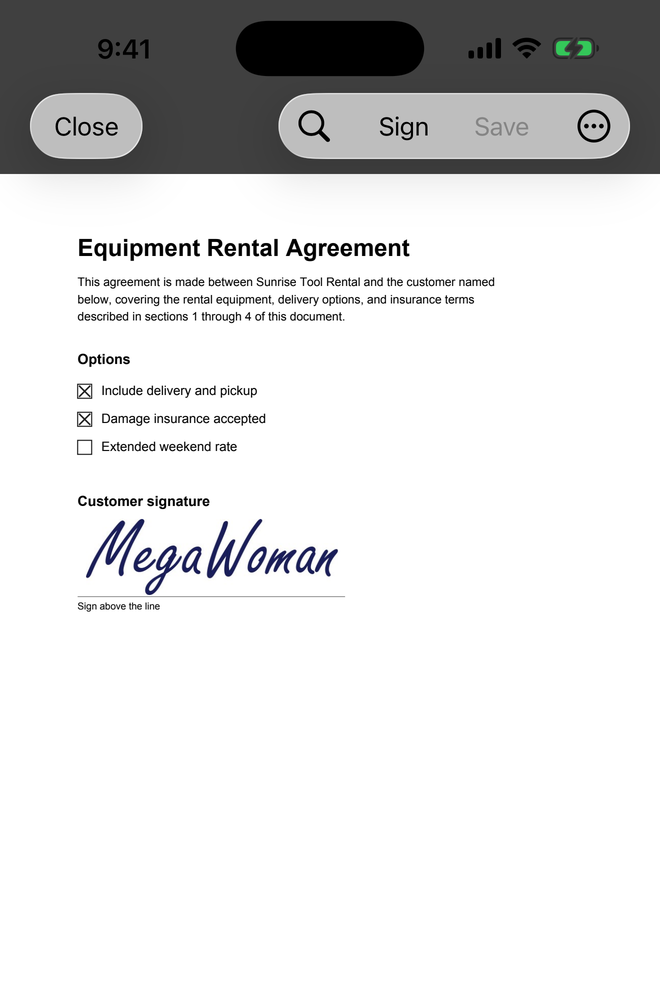
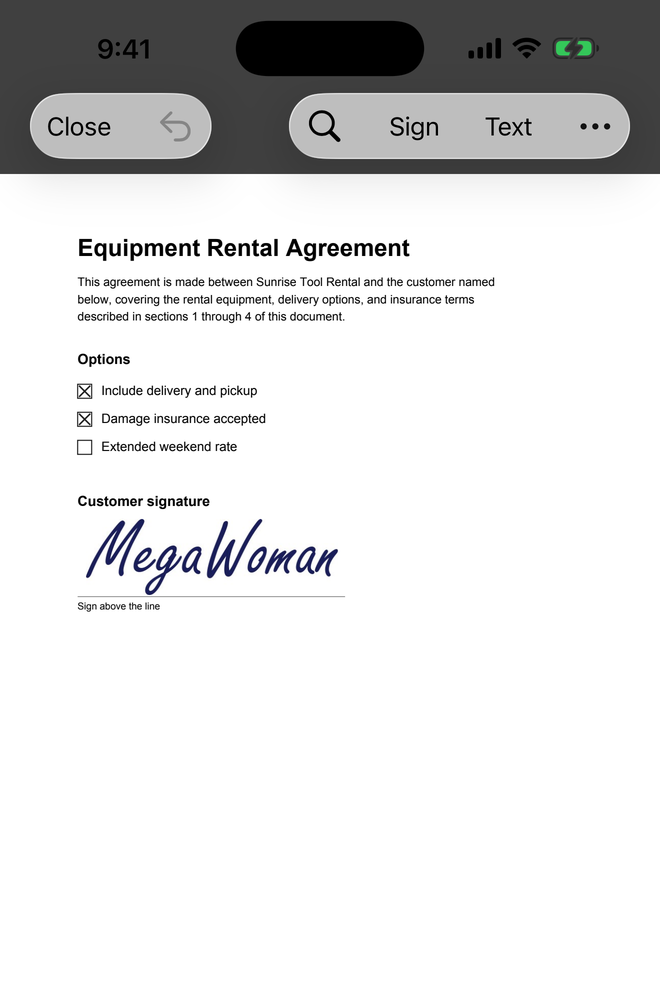
Marketing: a screenshot state for added text, and copy to match (#43) (#47)
* Marketing: a screenshot state for added text, and copy to match (#43)

The listings still described an app that cannot add text — a gap that
predates this work (#34 shipped Add text and the copy was never updated)
and widened with #36 and #43.

New `text` screenshot state on both phones: the demo agreement with the
text editor open on a typed name and the size and face pickers showing.
Wired into both capture pipelines, so the shot comes out of the existing
iOS Screenshots and Android Screenshots workflows alongside the other five.

The tap point is chosen rather than synthesised — just under the signature
rule the demo agreement draws, where a printed name belongs. The demo
document is deliberately untouched: four copies of demo.pdf exist across
the two apps and their test assets, and the dialog overlays the page
anyway, so the editor is the subject and the page is context.

Copy updated in three places: the website gains a "Type on any line"
feature card and a gallery shot, the App Store description gains a matching
section, and the Microsoft Store description gains an ADD TEXT paragraph
and a feature bullet — it went from "four things" to five.

Release notes for the mobile pair are written now, while the work is fresh,
in docs/release-notes-mobile-1.3.md. It picks up where 1.2 left off: that
file listed "moving a placed text box (#36)" under Not in this release, on
purpose, and that caveat is now spent. It deliberately does not tell the
[…]

diff --git a/android/app/src/main/java/com/megapdf/android/ViewerViewModel.kt b/android/app/src/main/java/com/megapdf/android/ViewerViewModel.kt
@@ -130,7 +130,7 @@ class ViewerViewModel(application: Application) : AndroidViewModel(application) 
     var pendingTextTap: PendingTextTap? by mutableStateOf(null)
         private set
 
-    /** Screenshot-mode sheet request ("sign" | "draw" | "search"); set via launch intent. */
+    /** Screenshot-mode sheet request ("sign" | "draw" | "search" | "text"); set via launch intent. */
     var screenshotSheet: String? by mutableStateOf(null)
         private set
 
@@ -163,7 +163,7 @@ class ViewerViewModel(application: Application) : AndroidViewModel(application) 
                     RecentEntry("demo://3", "Insurance Claim Form.pdf", now - 6 * day),
                 ), null)
             }
-            "viewer", "sign", "draw", "search" -> {
+            "viewer", "sign", "draw", "search", "text" -> {
                 screenshotSheet = if (state == "viewer") null else state
                 viewModelScope.launch {
                     val bytes = withContext(Dispatchers.IO) {
@@ -187,6 +187,16 @@ class ViewerViewModel(application: Application) : AndroidViewModel(application) 
                         // return, and the debounce is skipped so the hits and
                         // the "N of M" count are on screen without any wait.
                         startSearch(SCREENSHOT_SEARCH_TERM, debounceMs = 0L)
+                    }
+                    if (state == "text") {
+                        // The Add text dialog, open on a typed name with the size
+                        // and face pickers showing (#43). Armed here rather than
+                        // through onPageTapped because the tap point is chosen,
+                        // not synthesised: just under the signature rule, where a
+                        // printed name belongs on this agreement.
+                        pendingTextTap = PendingTextTap(
+                            0, SCREENSHOT_TEXT_X, SCREENSHOT_TEXT_Y,
+                            initialText = SCREENSHOT_TEXT)
                     }
                 }
             }
@@ -1025,5 +1035,11 @@ class ViewerViewModel(application: Application) : AndroidViewModel(application) 
         // Marketing screenshot query: "rental" is the most-repeated real word in
         // the demo agreement (title, then twice in the opening paragraph).
         const val SCREENSHOT_SEARCH_TERM = "rental"
+
+        // Marketing "Add text" shot: the name the customer would print under the
+        // signature rule the demo agreement draws at y=400.
+        const val SCREENSHOT_TEXT = "Jane Whitfield"
+        const val SCREENSHOT_TEXT_X = 72.0
+        const val SCREENSHOT_TEXT_Y = 372.0
     }
 }

diff --git a/ios/MegaPDF/ViewerModel.swift b/ios/MegaPDF/ViewerModel.swift
@@ -130,7 +130,7 @@ final class ViewerModel: ObservableObject {
         switch mode {
         case "home":
             state = .home(recents: DemoContent.demoRecents(), error: nil)
-        case "viewer", "sign", "draw", "search":
+        case "viewer", "sign", "draw", "search", "text":
             if let url = Bundle.main.url(forResource: "demo", withExtension: "pdf"),
                let bytes = try? Data(contentsOf: url) {
                 if mode == "sign" { screenshotSheet = .signatures }
@@ -139,6 +139,18 @@ final class ViewerModel: ObservableObject {
                 Task {
                     await open(bytes: bytes, password: nil,
                                displayName: "Rental Agreement.pdf", sourceURL: nil)
+                    if mode == "text" {
+                        // The Add text sheet, open on a typed name with the size
+                        // and face pickers showing (#43). Armed after the open so
+                        // it cannot be cleared by the state change, and with a
+                        // chosen tap point rather than a synthesised one: just
+                        // under the signature rule, where a printed name belongs.
+                        draftText = DemoContent.printedName
+                        pendingText = PendingText(pageIndex: 0,
+                                                  x: DemoContent.printedNameX,
+                                                  y: DemoContent.printedNameY,
+                                                  initialText: DemoContent.printedName)
+                    }
                 }
             }
         default:

diff --git a/website/megapdf/index.html b/website/megapdf/index.html
@@ -167,6 +167,12 @@
                    drawn checkboxes that other apps treat as decoration.</p>
             </article>
             <article class="feature">
+                <h3><span class="dot">T</span> Type on any line</h3>
+                <p>Tap where the answer goes and type it. Pick the size and the
+                   face so it matches the form you are filling in — then drag it
+                   into place, or tap it again to fix a typo.</p>
+            </article>
+            <article class="feature">
                 <h3><span class="dot">✎</span> Sign like you mean it</h3>
                 <p>Draw your signature or photograph the one on paper — the white
                    background disappears. Place it, move it, resize it until it sits
@@ -197,6 +203,10 @@
                 <figure>
                     <img src="shot-viewer.png" alt="A rental agreement with two checked boxes and a handwritten MegaWoman signature">
                     <figcaption>Checked and signed in under a minute</figcaption>
+                </figure>
+                <figure>
+                    <img src="shot-text.png" alt="Typing a name onto a rental agreement, with size and font pickers below the text field">
+                    <figcaption>Type on the blank line — your size, your font</figcaption>
                 </figure>
                 <figure>
                     <img src="shot-search.png" alt="Searching a rental agreement for the word rental, with three matches highlighted and a 1 of 3 counter">

diff --git a/ios/MegaPDF/DemoContent.swift b/ios/MegaPDF/DemoContent.swift
@@ -21,6 +21,12 @@ enum DemoContent {
     /// case-insensitive, so the lower-case term matches the capitalized ones.
     static let searchTerm = "rental"
 
+    /// Marketing "Add text" shot (#43): the name the customer would print under
+    /// the signature rule the demo agreement draws at y=400, and where it sits.
+    static let printedName = "Jane Whitfield"
+    static let printedNameX: Double = 72
+    static let printedNameY: Double = 372
+
     /// The handwritten "MegaWoman" demo signature (bundled transparent PNG,
     /// rendered from a script typeface at build time).
     static func signatureImage() -> CGImage? {

diff --git a/docs/release-notes-mobile-1.3.md b/docs/release-notes-mobile-1.3.md
@@ -1,0 +1,79 @@
+# Mobile release notes — text you can move, correct and style
+
+Written when the work merged (#36, #43) so the store copy is not composed under
+time pressure on approval day. Paste as-is; both are within their length limits.
+
+Continues `docs/release-notes-mobile-1.2.md`, which shipped Add text and undo
+and listed **"moving a placed text box (#36)"** under *Not in this release, on
+purpose*. That caveat is now spent.
+
+## Version numbers — check before you paste
+
+`android/app/build.gradle.kts` currently reads **1.2.0, versionCode 8**, which is
+the release 1.2 prepared and has not yet been superseded. Whether this work goes
+out as 1.3.0/vc9 or folds into an unshipped 1.2 depends on whether vc8 actually
+reached Play — **look before bumping.**
+
+iOS is the same story as last time: `MARKETING_VERSION` comes from the tag, so
+there is nothing in the repo to bump, and nothing here should be folded into a
+submission that is waiting on review. See `docs/app-review-notes.md`.
+
+## Google Play — release notes (en-CA, ≤500 chars)
+
+```
+Text you placed is no longer stuck. Tap it to select it, drag it where it
+belongs, or tap the pencil to fix a typo.
+
+Choose the size and the font. Six sizes, and sans, serif or monospace, so what
+you add matches the form you are filling in — on new text and on text you
+already placed.
+
+Everything is still one undo away.
+```
+
+*(around 330 characters)*
+
+## App Store — "What's New"
+
+```
+Text you placed is no longer stuck. Tap it to select it, drag it where it
+belongs, or tap the pencil to correct it.
+
+Choose the size and the font — six sizes, and sans, serif or monospace — so
+what you add matches the form you are filling in. Works on new text and on text
+you have already placed, and it is all one undo away.
+```
+
+## What the copy deliberately does not say
+
+- **"Three fonts"** rather than naming Helvetica, Times and Courier. The names
+  are exact in the PDF (SDD §6.2 contract 4) and must not drift, but they mean
+  nothing to the person reading a store listing. Sans/serif/monospace does.
+- **Nothing about bold or italic.** They are not offered. The full standard-14
+  set was considered and cut: §3.1 keeps formatting controls out, and a choice
+  between three faces is not a formatting toolbar.
+- **Nothing about editing the document's own text.** Still Windows-only, still
+  waiting on the shared engine core (#33 / ADR-002). Both stores' descriptions
+  already avoid claiming it on mobile — keep it that way.
+
+## Not in this release, on purpose
+
+- **Resizing a text box by dragging a handle.** A signature stamp resizes by
+  scaling its image; a text box would have to change font size, which is now a
+  picker instead. The selection overlay deliberately has no resize handle.
+- **Text boxes written by MegaPDF for Windows 1.6.x.** They carry no id, so the
+  phones decline to move or edit them and say so rather than silently addressing
+  the wrong box. Not worth a line in the listing, but it is the one case where
+  the feature visibly declines to work — worth knowing if a reviewer asks.
+
+## Screenshots
+
+A new `text` screenshot state ships with this work, so both stores get a shot of
+the text editor with the size and font pickers open. Run the **iOS Screenshots**
+and **Android Screenshots** workflows and upload the `-text` capture alongside
+the existing ones; captions are in `docs/app-store-listing.md` §Screenshots.
+
+The Windows Store screenshots are **not** covered by that — they need a real
+desktop with the new build installed (`tools/screenshots-windows/`), and the four
+on disk are still from 1.6.2. `tools/Store-Listing.md` §Screenshots carries the
+warning.

diff --git a/docs/app-store-listing.md b/docs/app-store-listing.md
@@ -45,6 +45,12 @@ character limits show the count in brackets.
 > printed squares alike. MegaPDF recognizes drawn checkboxes that other apps
 > treat as decoration.
 >
+> **Type on any line**
+> Tap where the answer goes and type it. Choose the size and the face — sans,
+> serif or monospace — so what you add matches the form you are filling in.
+> Drag it into place, or tap it again to fix a typo. Everything you add is
+> real, searchable text, not a sticker on top of the page.
+>
 > **Sign like you mean it**
 > Draw your signature with a finger, or photograph the one on paper — the
 > white background disappears automatically. Your signatures stay in a private
@@ -90,6 +96,9 @@ character limits show the count in brackets.
 > signature, and save safely back to the original file. No account, no
 > tracking, no network access — everything stays on your device.
 
+*Later releases keep their copy in `docs/release-notes-mobile-*.md`, written
+when the work merges rather than composed under time pressure on approval day.*
+
 ## App Privacy (Data Collection)
 
 Select **"Data is not collected"** for every category. Justification if asked:
@@ -105,16 +114,19 @@ workflow), download the `appstore-screenshots` artifact, and upload:
 | File | Slot | Suggested caption (optional overlay text) |
 |---|---|---|
 | `iphone-6_9-viewer.png` | iPhone 6.9" #1 | *Checked and signed in under a minute* |
-| `iphone-6_9-search.png` | iPhone 6.9" #2 | *Find any word, on every page* |
-| `iphone-6_9-sign.png` | iPhone 6.9" #3 | *Your signatures, saved on your device* |
-| `iphone-6_9-draw.png` | iPhone 6.9" #4 | *Draw it once, use it everywhere* |
-| `iphone-6_9-home.png` | iPhone 6.9" #5 | *No account. No cloud. No tracking.* |
-| `ipad-13-*.png` | iPad 13" #1–5 | same order |
+| `iphone-6_9-text.png` | iPhone 6.9" #2 | *Type on the blank line — your size, your font* |
+| `iphone-6_9-search.png` | iPhone 6.9" #3 | *Find any word, on every page* |
+| `iphone-6_9-sign.png` | iPhone 6.9" #4 | *Your signatures, saved on your device* |
+| `iphone-6_9-draw.png` | iPhone 6.9" #5 | *Draw it once, use it everywhere* |
+| `iphone-6_9-home.png` | iPhone 6.9" #6 | *No account. No cloud. No tracking.* |
+| `ipad-13-*.png` | iPad 13" #1–6 | same order |
 
 Order matters: the viewer shot (a filled, signed agreement) leads.
 
-The search shot only exists once the `search` screenshot state ships — it is
-not in the 1.0 builds, so upload it with the update that carries Find.
+Each shot only exists once its screenshot state ships. `search` is not in the
+1.0 builds, and `text` is newer still (#43) — upload each with the update that
+actually carries the feature, or the listing promises something the binary does
+not do.
 
 ## App Review Information
 
@@ -152,8 +164,12 @@ not in the 1.0 builds, so upload it with the update that carries Find.
 > 5. Tap the magnifier and search a long document — do the highlights and the
 >    "3 of 17" count match what you see, and does the return key walk through
 >    the matches and wrap around at the end?
-> 6. If you also use MegaPDF on Windows or Android: sign there, open here —
->    the signature should be movable on both.
+> 6. Tap Text, tap a blank line, and type — try a different size and font
+>    before adding it. Then tap the text you placed: drag it, use the pencil to
+>    fix a typo or change its size, and undo the lot.
+> 7. If you also use MegaPDF on Windows or Android: sign there, open here —
+>    the signature should be movable on both, and text added on one should
+>    keep its size and face on the others.
 
 ---
 

diff --git a/tools/Store-Listing.md b/tools/Store-Listing.md
@@ -10,11 +10,15 @@
 paragraphs survive, markdown does not.)
 
 Mega PDF is a free, lightweight PDF editor built for people who find the big
-PDF suites too bloated and complex. It does four things exceptionally well —
+PDF suites too bloated and complex. It does five things exceptionally well —
 and deliberately nothing else.
 
 EDIT TEXT — Click any text in the document and type, like editing a Word file.
 Fix a typo, change a date, update a number. Done.
+
+ADD TEXT — Click a blank line and type on it. Pick the size and the face —
+sans, serif or monospace — so what you add matches the rest of the form. Drag
+it into place, or double-click it later to change it.
 
 CHECK BOXES — Click an empty square and it becomes a checked box. Forms that
 were never meant to be filled digitally, filled digitally.
@@ -41,6 +45,7 @@ Mega PDF is open source (Apache-2.0): github.com/SlyWombat/MegaPDF
 (Store listing → "App features", up to 20 × 200 chars. Use these eight.)
 
 - Edit text in any PDF by clicking and typing — like a Word document
+- Add text on any blank line, in the size and face that matches the form
 - Click empty squares to check boxes on any form
 - Drag signatures from your personal library onto the page, then nudge and resize
 - Find any word in the document with Ctrl+F — every match highlighted, Enter steps through them
@@ -69,9 +74,8 @@ Mega PDF is open source (Apache-2.0): github.com/SlyWombat/MegaPDF
 - Copyright: © 2026 Electric RV. Licensed under Apache-2.0.
 
 ## Screenshots
-Shot and ready to upload: `artifacts/store/screenshots/` (3038×1989, well over the
-1366×768 minimum; 1–4 required). Captured from **1.6.2** — see that folder's
-README.md to re-shoot after a UI change. Upload in this order, one caption each:
+`artifacts/store/screenshots/` (3038×1989, well over the 1366×768 minimum; 1–4
+required). Upload in this order, one caption each:
 
 | File | Caption (≤ 200 chars) |
 |---|---|
@@ -79,6 +83,17 @@ README.md to re-shoot after a UI change. Upload in this order, one caption each:
 | `02-checkbox.png` | Click an empty square to check it. Drawn checkboxes too, not just real form fields. |
 | `03-signature.png` | Drop a saved signature on the line, then nudge it into place. |
 | `04-shrink.png` | Shrink oversized scans to email-friendly sizes in one click. |
+| `05-add-text.png` | Type on a blank line, in the size and face that matches the form. |
+
+⚠ **The four shots on disk are from 1.6.2 and predate the ADD TEXT copy above.**
+They show a toolbar without the size and font pickers, and there is no
+`05-add-text.png` yet. Re-shoot all five before submitting, or the listing
+describes a build the screenshots do not show — the same mismatch NEXT-STEPS.md
+already flags between the shots and the staged upload package.
+
+Re-shooting needs a Windows desktop with the new build installed; the harness is
+`tools/screenshots-windows/` (start with its README). It cannot be done from CI —
+unlike iOS and Android, whose screenshots come from the Actions workflows.
 
 Shot 3 is click-to-place, not drag: picking a signature from the library arms
 placement and the next click on the page drops it there, selected for nudging.

diff --git a/tools/screenshots-windows/README.md b/tools/screenshots-windows/README.md
@@ -35,6 +35,9 @@ the result before continuing. Paths must be **Windows** paths.
     # 5. shot 4 — save, open the scan, Shrink for email
     .\Shot-Shrink.ps1 -Pdf "<repo>\...\scanned-agreement.pdf" -Out "<repo>\...\scanned-agreement - smaller.pdf"
 
+    # 6. shot 5 — NOT YET SCRIPTED, see below
+    #    Add text with the size and face pickers showing (#43).
+
 `Test-FullBreakpoint.ps1` captures toolbar strips right at the full-label
 breakpoint with a document open and edited, so `Save ●` is showing — the widest
 the bar ever gets, and the one state where clipping could survive the fix.
@@ -48,6 +51,29 @@ toolbar strips across a list of widths. `Shot-Now.ps1` grabs the current state.
 scale.** They are read off the previous screenshot, not computed: `Click-InShot`
 maps image coordinates to screen because the shot *is* the DWM frame rect. On any
 other frame, take a shot first and re-read them.
+
+## Shot 5 — Add text, with the pickers (#43): still to be written
+
+`tools/Store-Listing.md` now describes ADD TEXT and lists a fifth screenshot,
+`05-add-text.png`. **There is no script for it yet, and the four shots on disk
+predate the feature.** Both need doing before the listing is submitted, or it
+describes a build its screenshots do not show.
+
+What the shot has to show: the inline editor open on a blank line with the size
+box and font box above it — the state `ShowInlineEditor` produces when it is
+handed a non-null `style`, which happens only for MegaPDF's own text boxes (the
+Add text button's click, or a double-click on an existing box).
+
+Why it is not scripted here: every coordinate in this harness is *read off the
+previous screenshot*, not computed, and the pickers are new UI that has never
+been captured — so there is no frame to read them from. The sequence is
+`Setup-Frame.ps1`, click the **Add text** toolbar button, click the blank line
+under the signature rule, type, then open the size box before shooting. Write it
+the way `Shot-TextEdit.ps1` is written, taking `-X`/`-Y` from a probe shot.
+
+It also cannot be done from CI: unlike iOS and Android, whose screenshots come
+from the Actions workflows, this harness drives a real installed package on a
+real desktop.
 
 ## Why 3060x2000
 
